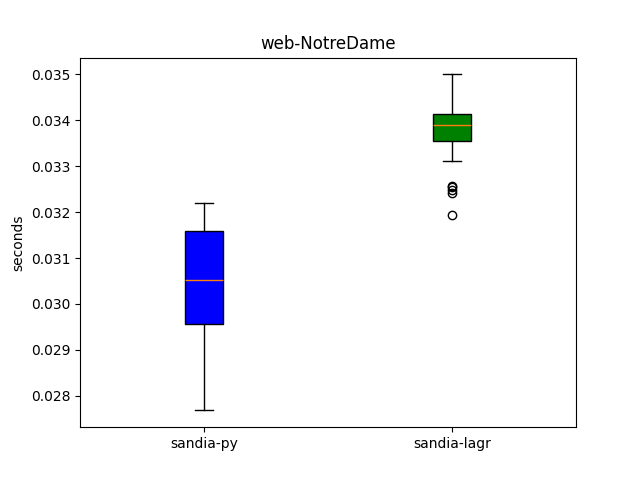
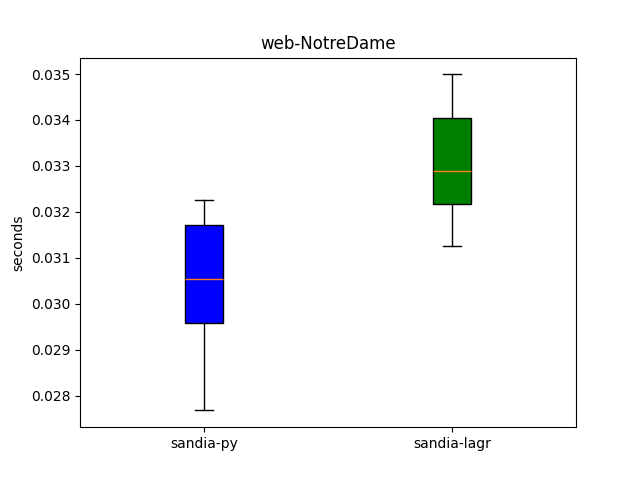
fix format

diff --git a/src/plot_all.py b/src/plot_all.py
@@ -28,9 +28,9 @@ for i in range(0, 2):
 print("\n--- SEM ---")
 all_labels = ["burkhard-py", "sandia-py", "burkhard-lagr", "sandia-lagr"]
 all_datasets = [
-    sorted(data_py[0]),
+    sorted(data_py[0])[:-1],
     sorted(data_py[1]),
-    data_lagr[0],
+    sorted(data_lagr[0])[:-1],
     sorted(data_lagr[1]),
 ]
 for label, d in zip(all_labels, all_datasets):
@@ -40,7 +40,7 @@ for label, d in zip(all_labels, all_datasets):
     print(f"{label}: mean={mean:.6f}, sem={sem:.6f}, interval={mean:.6f} ± {ci:.6f}")
 
 all_data = [
-    sorted(data_py[0]),
+    sorted(data_py[0])[:-1],
     sorted(data_py[1]),
     sorted(data_lagr[0]),
     sorted(data_lagr[1]),
@@ -57,14 +57,14 @@ plt.show()
 
 # below code for 2 boxplots
 # all_data_2 = [
-#     sorted(data_py[0]),
-#     sorted(data_lagr[0]),
+#     sorted(data_py[1]),
+#     sorted(data_lagr[1]),
 # ]
 # bp = plt.boxplot(all_data_2, patch_artist=True)
 # colors = ["b", "g"]
 # for patch, color in zip(bp["boxes"], colors):
 #     patch.set_facecolor(color)
-# selected_labels = [algorithms2[0], algorithms2[2]]
+# selected_labels = [algorithms2[1], algorithms2[3]]
 # plt.xticks([1, 2], selected_labels)
 # plt.ylabel("seconds")
 # plt.title(graph)

diff --git a/tests/lagraph_test.c b/tests/lagraph_test.c
@@ -1,7 +1,7 @@
 // SPDX-License-Identifier: MIT
 // Copyright (c) 2026 Dmitry Sergeev
-#include <assert.h>
 #include "../lagraph_bench/lagraph_utils.h"
+#include <assert.h>
 
 void createTestMatrix(const char* filename, const char* content)
 {
@@ -19,15 +19,15 @@ void testEmptyMatrixFile()
     printf("PASSED\n");
 }
 
-void testPreprocessMatrix(){
+void testPreprocessMatrix()
+{
     char msg[LAGRAPH_MSG_LEN];
     const char* filename = "test_matrix.mtx";
-    const char* content = 
-        "%%MatrixMarket matrix coordinate pattern general\n"
-        "3 3 3\n"
-        "1 1\n"
-        "1 2\n"
-        "2 3\n";
+    const char* content = "%%MatrixMarket matrix coordinate pattern general\n"
+                          "3 3 3\n"
+                          "1 1\n"
+                          "1 2\n"
+                          "2 3\n";
 
     createTestMatrix(filename, content);
     LAGraph_Graph g = createMatrixForBench(filename, msg);
@@ -47,7 +47,8 @@ void testPreprocessMatrix(){
     printf("PASSED\n");
 }
 
-int main(){
+int main()
+{
     char msg[LAGRAPH_MSG_LEN];
     LAGraph_Init(msg);
     printf("Tests:\n\n");
